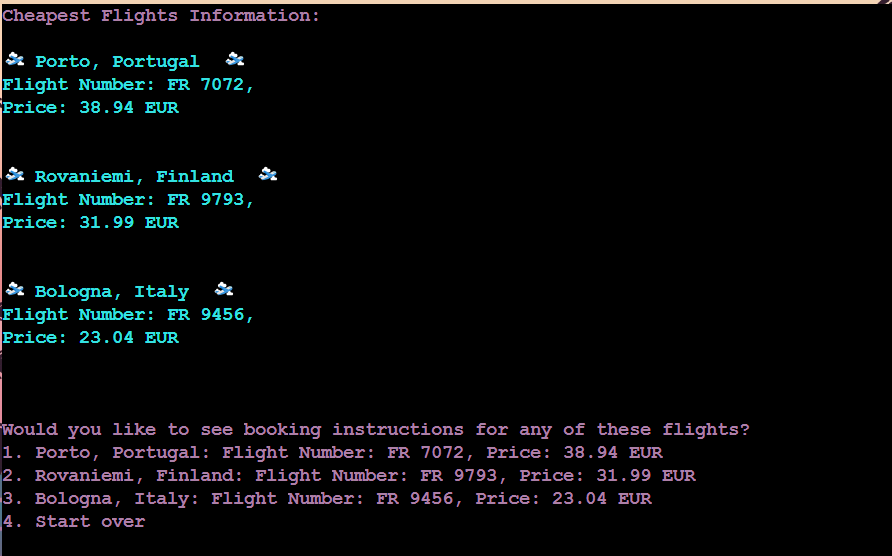
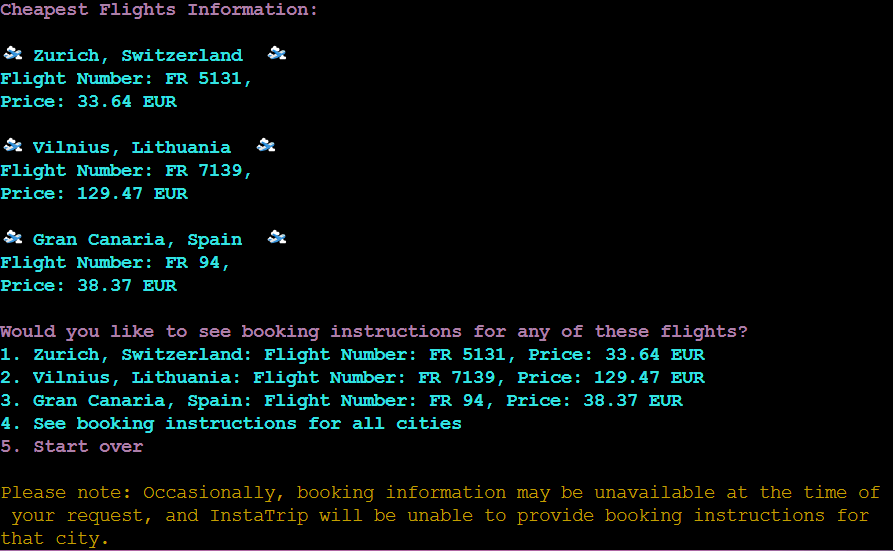
update README with new flight details screenshots

Changed region(s): [[0.0, 0.0, 1.0, 1.0], [0.3027, 0.4011, 0.333, 0.4628], [0.3027, 0.0926, 0.333, 0.1234]]

diff --git a/README.md b/README.md
@@ -339,15 +339,17 @@ Real-time flight information for each of the three cities is then fetched via th
 <img src="assets/documentation/flights1.png" height="450px"/>
 </p>
 
-The user is asked whether they would like to see booking details for any of the cities or to start the program over
+The user is asked whether they would like to see booking details for any of the cities, all of the cities, or to start the program over
 
 ## Final Flight Details
 
 <p align="center">
 <img src="assets/documentation/flights2.png" height="450px"/>
+<img src="assets/documentation/flights2b.png" height="450px"/>
+<img src="assets/documentation/flights3.png" height="450px"/>
 </p>
 
-The final step of the program is to print the flight details of the user's chosen city and offer the url for Ryanair so that they may book a flight if wished
+The final step of the program is to print the flight details of the user's chosen city (top photo) or the details of all city selections (photos 2 and 3) and offer the url for Ryanair so that they may book a flight if wished
 
 # Future Features
 
@@ -514,7 +516,10 @@ Python validated with [PEP8 Python De-Linter](https://pep8ci.herokuapp.com/)
 | **Flight Information**  |
 | Would you like to see booking instructions for any of these flights? | Enter various incorrect numbers, letters/words, press *Enter* | Exception message and redirection | Pass |
 | Would you like to see booking instructions for any of these flights? | Enter 1,2, or 3 | Prints flight information generated by Ryanair API for *selected_flight* | Pass |
-| Would you like to see booking instructions for any of these flights? | Enter 4 (*start over*) | User returned to *Main Menu* | Pass |
+| See booking instructions for all cities | Enter various incorrect numbers, letters/words, press *Enter* | Exception message and redirection | Pass |
+| See booking instructions for all cities | Enter 4 | Prints flight information generated by Ryanair API for all three flights | Pass |
+| Start Over | Enter 5 (*start over*) | User returned to *Main Menu* | Pass |
+
 | **Final Flight Details**  |
 | Press *Enter* to return to Main Menu | Enter various incorrect numbers, letters/words | Exception message and redirection | Pass |
 | Press *Enter* to return to Main Menu | Press *Enter* | calls display_menu() | Pass |
@@ -625,7 +630,7 @@ Exception handling has been implemented to ensure smooth user interactions, vali
 <details>
   <summary>Testing the Final Flight Details Section (click)</summary> 
 <p align="center">
-<img src="assets/documentation/finalflightex.png" height="450px">
+<img src="assets/documentation/finalflightex1.png" height="450px">
 </p>
 
 - User input is validated and no alphanumeric entry or keypress outside of the specified format is accepted
